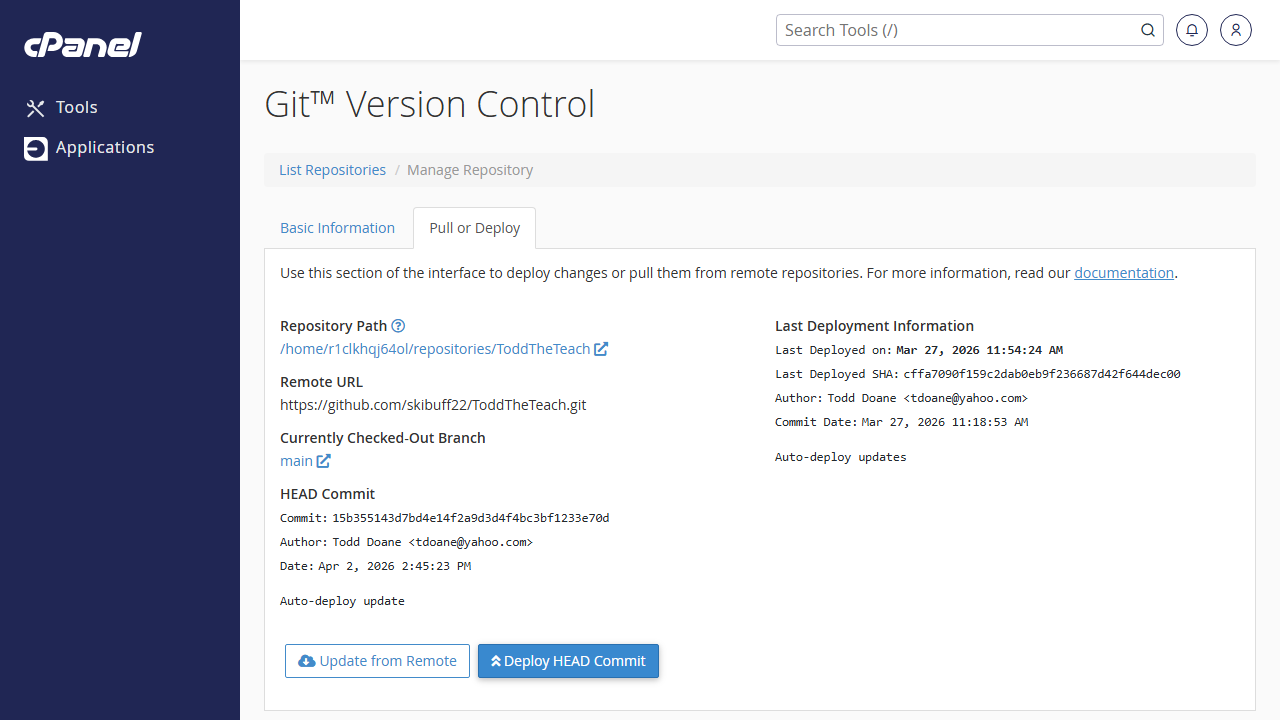
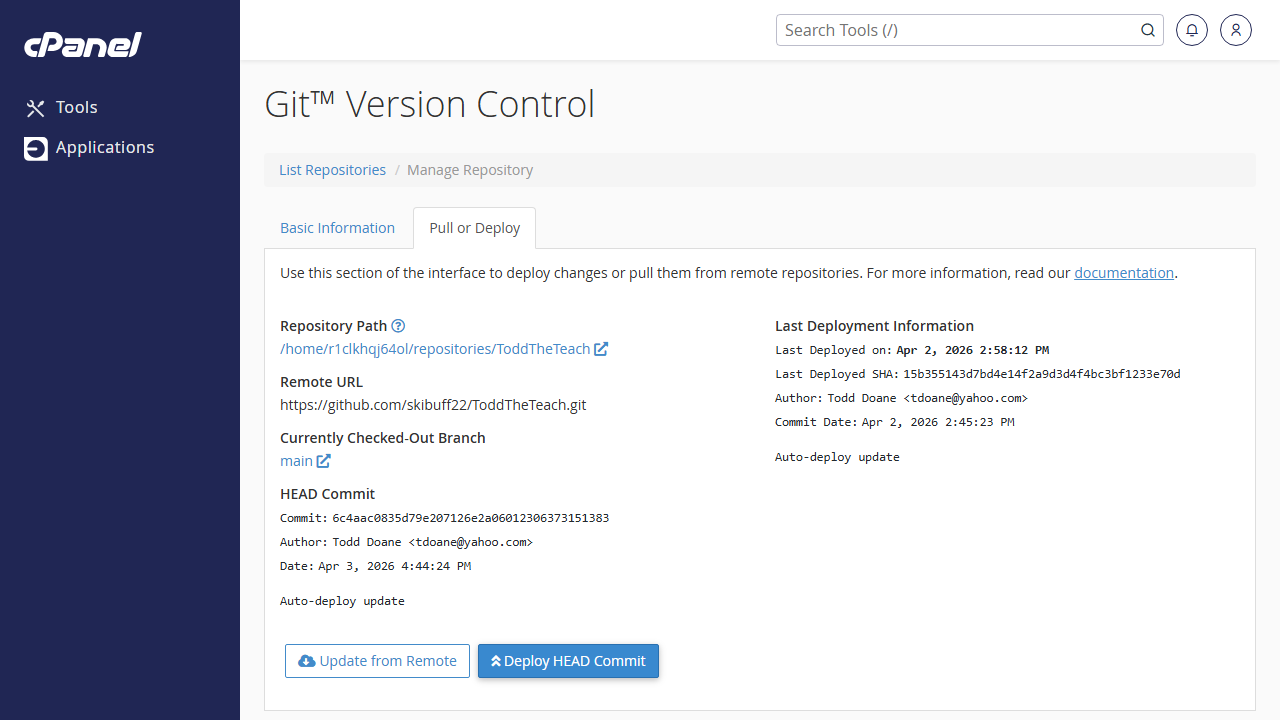
Auto-deploy update

diff --git a/executions/update_calyx_progress.py b/executions/update_calyx_progress.py
@@ -8,6 +8,7 @@ import sys
 base_dir = os.path.dirname(os.path.dirname(os.path.abspath(__file__)))
 sys.path.insert(0, os.path.join(base_dir, "executions"))
 import deploy_now
+import deploy_cpanel
 
 def update_calyx_progress():
     print(f"[{datetime.now()}] Reading Calyx AI Project Tracker...")
@@ -101,9 +102,10 @@ def update_calyx_progress():
         print("Updated index.html successfully.")
         
         # 4. Trigger Deployment
-        print("Triggering deployment with deploy_now...")
+        print("Triggering deployment...")
         os.chdir(base_dir) # ensure we are in the repo root for git commands
-        deploy_now.deploy_cpanel_git()
+        deploy_now.git_push()
+        deploy_cpanel.deploy_cpanel()
         
         return True
 

diff --git a/qa_report_toddtheteach_com.md b/qa_report_toddtheteach_com.md
@@ -1,9 +1,9 @@
-# QA Report for https://toddtheteach.com/?cachebreak=5
+# QA Report for https://toddtheteach.com/?cachebreak=9
 
 Pages Crawled: 4
 
 ## 1. Broken Links & Errors
-No broken links found on crawled pages.
+- https://toddtheteach.com/?cachebreak=9 (Status: DEPLOYMENT FAILURE: Expected text 'Development Tracker' not found on live site.)
 
 ## 2. Image Issues
 **Broken Images:** 0
